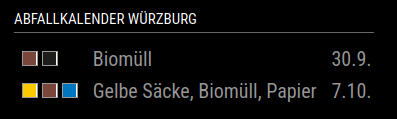
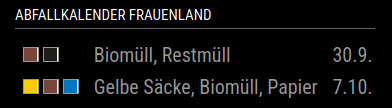
typo

diff --git a/Readme.md b/Readme.md
@@ -68,15 +68,15 @@ rowsMax: 5 // max num rows to be displayed; 0 for unlimited
         module: "MMM-WasteCollectionWuerzburg",
         position: "top_left",
         config: {
-                title: 'Abfallkalender Frauenland',
-                rowsMax: 2,
-                districts: ['Frauenland'],
-                categories: [ 
-                        'Restmuell',
-                        'Biomüll',
-                        'Gelbe Säcke',
-                        'Papier'
-                ]
+            title: 'Abfallkalender Frauenland',
+            rowsMax: 2,
+            districts: ['Frauenland'],
+            categories: [ 
+                'Restmüll',
+                'Biomüll',
+                'Gelbe Säcke',
+                'Papier'
+            ]
         }
 }
 ```
